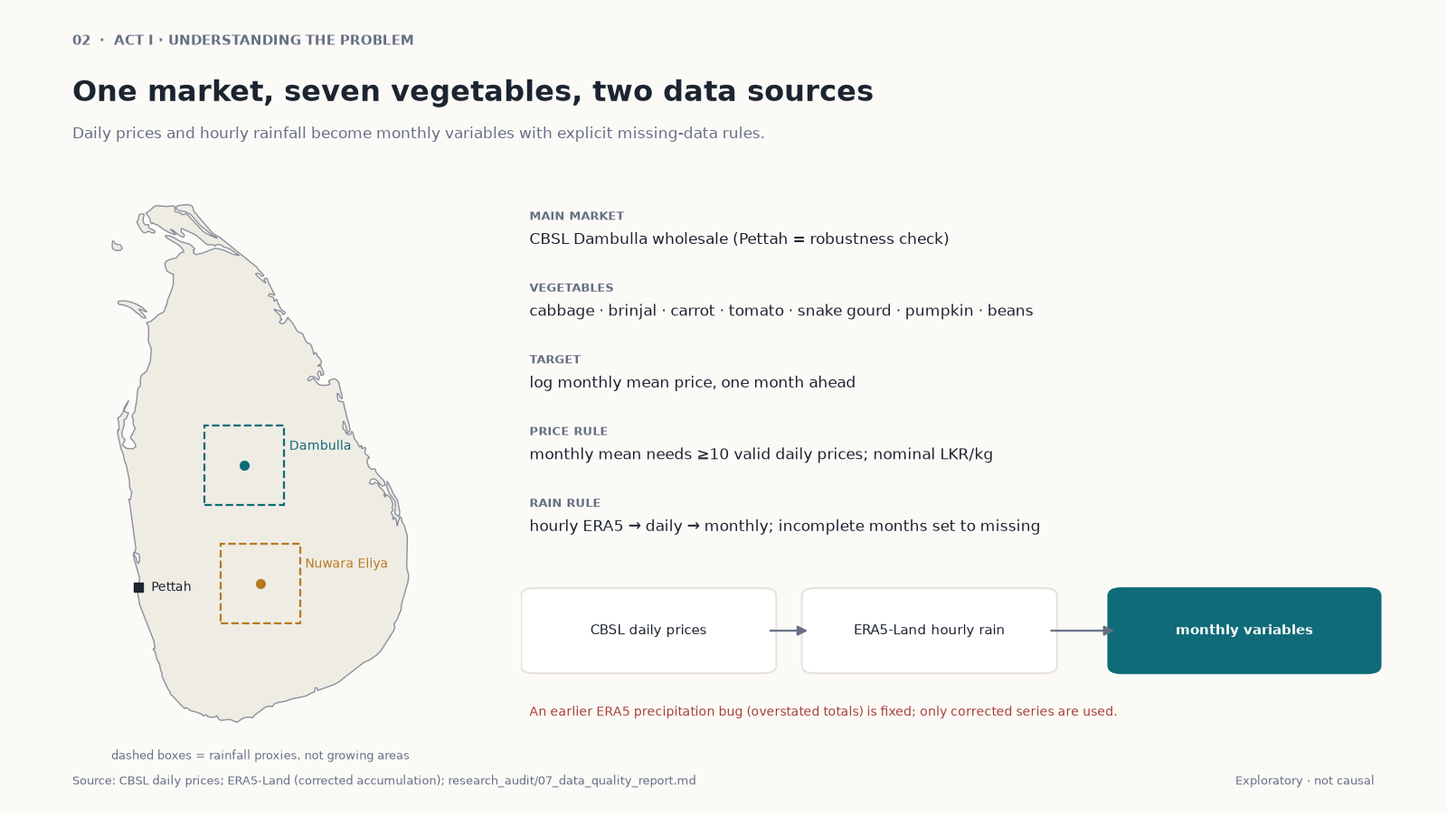
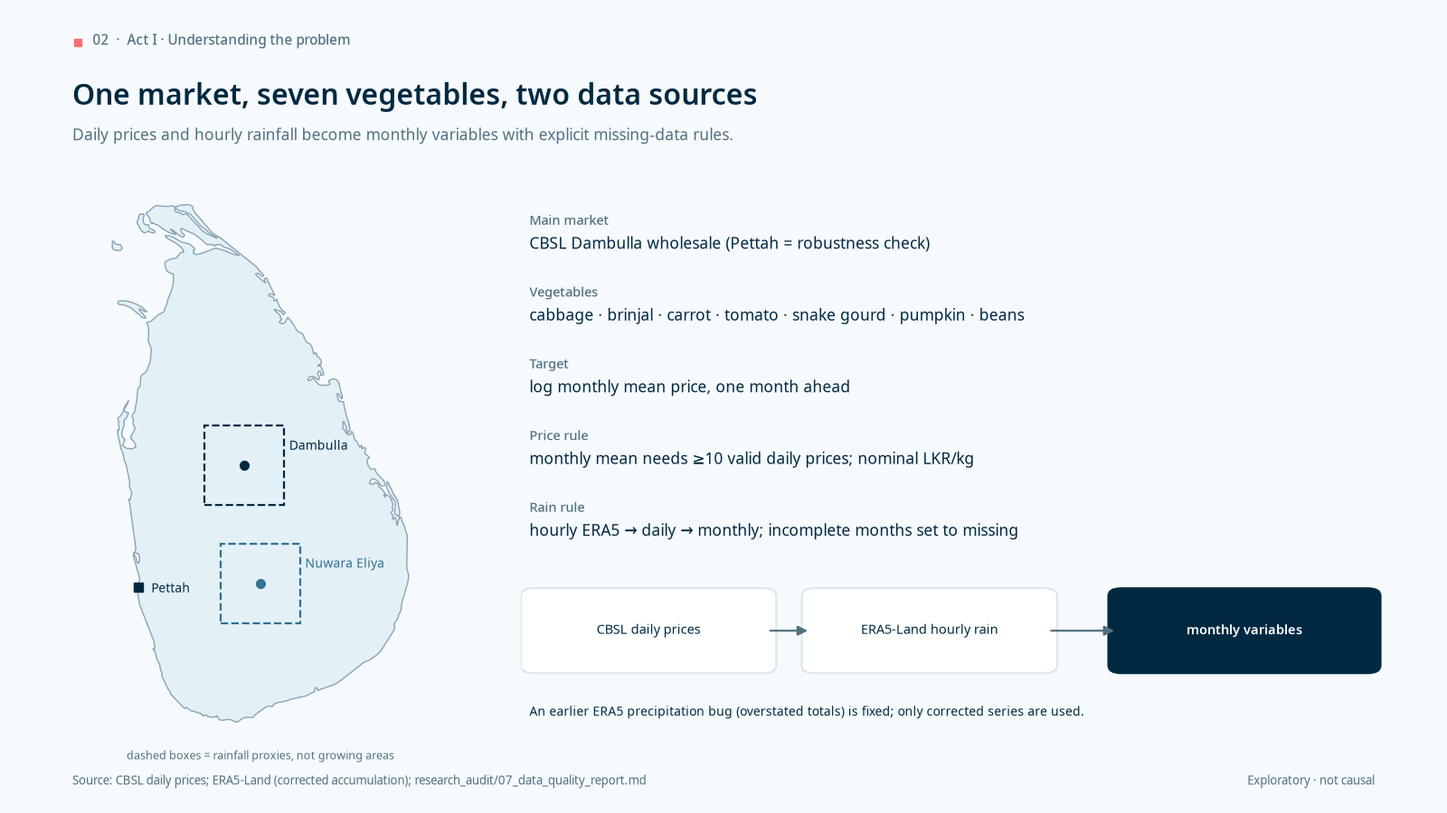
research-story: design pass with navy / soft blue / coral palette (unslop, polish mode)
Styling only; no wording, numbers or conclusions changed except the colour description in README 06.
Tokens: midnight navy ink and primary, soft blue tints and exploratory state, coral as the single accent
(act marker, worse state, caution rule), never as text. Noto Sans regular/medium/semibold, sentence-case
labels instead of tracked capitals, thin card rules instead of heavy header bars, diverging heat map
navy/coral, evidence dots carry colour while labels carry text. App: matching theme, quiet buttons with
focus ring, coral brand square.

diff --git a/research-story/build_figures.py b/research-story/build_figures.py
@@ -12,7 +12,15 @@ matplotlib.use("Agg")
 import matplotlib.pyplot as plt
 import numpy as np
 import pandas as pd
+from matplotlib.colors import LinearSegmentedColormap
+from matplotlib.lines import Line2D
 from matplotlib.patches import FancyArrowPatch, FancyBboxPatch, Rectangle
+
+from matplotlib import font_manager
+for _w in ("Regular", "Medium", "SemiBold"):          # static Noto Sans cuts, when installed (falls back to DejaVu Sans)
+    _f = Path(f"/usr/share/fonts/google-noto/NotoSans-{_w}.ttf")
+    if _f.exists():
+        font_manager.fontManager.addfont(str(_f))
 
 ROOT = Path(__file__).resolve().parent
 WORK = ROOT.parent
@@ -22,10 +30,13 @@ V2 = RA / "forecast_validation_v2"
 OUT = ROOT / "storyboard"
 
 # ---- design tokens (one accent; evidence class carried by colour AND label) ----
-PAPER, INK, MUTED, GRID = "#fbfaf7", "#1c2430", "#667085", "#e6e2d9"
-BASE, ACC, EXPL, BAD = "#8a929c", "#0f6b78", "#b7791f", "#a8403a"
-EVID_COL = {"supported": ACC, "exploratory": EXPL, "no evidence": BASE, "worse": BAD}
-plt.rcParams.update({"font.family": "DejaVu Sans", "axes.edgecolor": GRID, "axes.labelcolor": MUTED,
+# Palette: midnight navy (ink + primary), soft blue (tint), coral (the one accent: marks and caution only, never text)
+NAVY, SOFT, CORAL = "#002941", "#b6dfed", "#fd6e6e"
+PAPER, INK, MUTED, GRID = "#f6fafc", NAVY, "#52707f", "#d8e6ee"
+TINT, RAIN, MID, BASE = "#e3f1f7", "#8cc0d6", "#2f7292", "#8aa3b2"
+ACC, EXPL, BAD = NAVY, MID, CORAL
+EVID_COL = {"supported": NAVY, "exploratory": SOFT, "no evidence": "#a9bcc7", "worse": CORAL}
+plt.rcParams.update({"font.family": ["Noto Sans", "DejaVu Sans"], "axes.edgecolor": GRID, "axes.labelcolor": MUTED,
                      "xtick.color": MUTED, "ytick.color": MUTED, "text.color": INK,
                      "axes.spines.top": False, "axes.spines.right": False, "axes.facecolor": PAPER,
                      "figure.facecolor": PAPER, "axes.grid": False})
@@ -33,9 +44,9 @@ plt.rcParams.update({"font.family": "DejaVu Sans", "axes.edgecolor": GRID, "axes
 VEGS = ["Cabbage", "Brinjal", "Carrot", "Tomato", "Snake gourd", "Pumpkin", "Beans"]
 SLUGS = {1: "opening", 2: "scope_and_data", 3: "prices_and_rain", 4: "forecast_experiment", 5: "evaluation",
          6: "main_result", 7: "robustness", 8: "accuracy", 9: "wider_context", 10: "conclusions"}
-ACTS = {**{i: "ACT I · UNDERSTANDING THE PROBLEM" for i in (1, 2, 3)},
-        **{i: "ACT II · TESTING THE IDEA" for i in (4, 5, 6, 7, 8)},
-        **{i: "ACT III · THE WIDER PICTURE" for i in (9, 10)}}
+ACTS = {**{i: "Act I · Understanding the problem" for i in (1, 2, 3)},
+        **{i: "Act II · Testing the idea" for i in (4, 5, 6, 7, 8)},
+        **{i: "Act III · The wider picture" for i in (9, 10)}}
 
 
 # Stored v2 evidence label -> slide label (read from forecast_model_comparison_v2.csv, never re-derived)
@@ -45,8 +56,9 @@ EVID_LABEL = {"supported (corrected)": "supported", "suggestive (uncorrected onl
 
 def frame(n, headline, source, sub=None):
     fig = plt.figure(figsize=(16, 9), dpi=100)
-    fig.text(0.05, 0.945, f"{n:02d}  ·  {ACTS[n]}", fontsize=11, color=MUTED, fontweight="bold")
-    fig.text(0.05, 0.885, headline, fontsize=23, fontweight="bold", va="center")
+    fig.add_artist(Line2D([0.0535], [0.9475], marker="s", color=CORAL, markersize=6, linestyle="none", transform=fig.transFigure))
+    fig.text(0.064, 0.945, f"{n:02d}  ·  {ACTS[n]}", fontsize=11, color=MUTED, fontweight="medium")
+    fig.text(0.05, 0.885, headline, fontsize=23, fontweight="semibold", va="center")
     if sub:
         fig.text(0.05, 0.835, sub, fontsize=12.5, color=MUTED, va="center")
     fig.text(0.05, 0.035, "Source: " + source, fontsize=9.5, color=MUTED)
@@ -65,7 +77,7 @@ def save(fig, n):
 def box(ax, xy, w, h, text, fc="white", ec=GRID, tc=INK, fs=12, bold=False, lw=1.4):
     ax.add_patch(FancyBboxPatch(xy, w, h, boxstyle="round,pad=0.01,rounding_size=0.015", fc=fc, ec=ec, lw=lw))
     ax.text(xy[0] + w / 2, xy[1] + h / 2, text, ha="center", va="center", fontsize=fs, color=tc,
-            fontweight="bold" if bold else "normal", linespacing=1.4)
+            fontweight="semibold" if bold else "normal", linespacing=1.4)
 
 
 def arrow(ax, a, b, col=MUTED):
@@ -131,7 +143,7 @@ def p01():
     a.set_ylabel("Cabbage, LKR/kg (nominal)", fontsize=10); style_axes(a); a.set_xticklabels([])
     r, _ = national_rain(); r = r.loc["2016":]
     b = fig.add_axes([0.06, 0.13, 0.88, 0.22])
-    b.bar(r.index, r.values, width=24, color=BASE)
+    b.bar(r.index, r.values, width=24, color=RAIN)
     b.set_ylabel("National rain, mm/month", fontsize=10); style_axes(b)
     fig.text(0.5, 0.775, "Dambulla wholesale price and observed national rainfall, 2016–2026", ha="center", fontsize=11, color=MUTED)
     fig.text(0.5, 0.045 + 0.0, "", fontsize=1)
@@ -147,7 +159,7 @@ def p02():
     ax = fig.add_axes([0.04, 0.08, 0.28, 0.7])
     for poly in f["geometry"]["coordinates"]:
         for ring in poly:
-            xs, ys = zip(*ring); ax.fill(xs, ys, fc="#efece4", ec=BASE, lw=1)
+            xs, ys = zip(*ring); ax.fill(xs, ys, fc=TINT, ec=BASE, lw=1)
     for nme, (x, y, c) in {"Dambulla": (80.65, 7.86, ACC), "Nuwara Eliya": (80.77, 6.97, EXPL)}.items():
         ax.add_patch(Rectangle((x - 0.3, y - 0.3), 0.6, 0.6, fc="none", ec=c, ls="--", lw=1.6))
         ax.plot(x, y, "o", color=c, ms=7); ax.annotate(nme, (x + 0.34, y + 0.12), fontsize=10, color=c)
@@ -162,12 +174,12 @@ def p02():
              ("RAIN RULE", "hourly ERA5 → daily → monthly; incomplete months set to missing")]
     for i, (k, v) in enumerate(items):
         y = 0.96 - i * 0.135
-        r.text(0, y, k, fontsize=9.5, color=MUTED, fontweight="bold", va="top")
+        r.text(0, y, k.capitalize(), fontsize=10.5, color=MUTED, fontweight="medium", va="top")
         r.text(0, y - 0.04, v, fontsize=12.5, va="top")
     box(r, (0.0, 0.1), 0.28, 0.14, "CBSL daily prices", fs=10.5); box(r, (0.33, 0.1), 0.28, 0.14, "ERA5-Land hourly rain", fs=10.5)
     box(r, (0.69, 0.1), 0.3, 0.14, "monthly variables", fc=ACC, ec=ACC, tc="white", fs=10.5, bold=True)
     arrow(r, (0.28, 0.17), (0.33, 0.17)); arrow(r, (0.61, 0.17), (0.69, 0.17))
-    r.text(0.0, 0.01, "An earlier ERA5 precipitation bug (overstated totals) is fixed; only corrected series are used.", fontsize=10, color=BAD)
+    r.text(0.0, 0.01, "An earlier ERA5 precipitation bug (overstated totals) is fixed; only corrected series are used.", fontsize=10, color=INK)
     save(fig, 2)
 
 
@@ -184,12 +196,12 @@ def p03():
     for i, v in enumerate(VEGS):
         ax = fig.add_subplot(gs[i // 4, i % 4]); s = pr[v].dropna()
         ax.axvspan(pd.Timestamp("2022-01-01"), pd.Timestamp("2022-12-31"), color=GRID, lw=0)
-        ax.plot(s.index, s.values, color=ACC, lw=1.3); ax.set_title(v, fontsize=10.5, loc="left", fontweight="bold")
+        ax.plot(s.index, s.values, color=ACC, lw=1.3); ax.set_title(v, fontsize=10.5, loc="left", fontweight="semibold")
         style_axes(ax); ax.tick_params(labelsize=7.5)
     n = fig.add_subplot(gs[1, 3]); n.axis("off")
     n.text(0, 0.9, "LKR/kg, nominal\nshaded = 2022", fontsize=9.5, color=MUTED, va="top", linespacing=1.5)
     h = fig.add_axes([0.70, 0.36, 0.26, 0.42])
-    h.imshow(lag.values, cmap="RdBu_r", vmin=-0.6, vmax=0.6, aspect="auto")
+    h.imshow(lag.values, cmap=LinearSegmentedColormap.from_list("rain", [(0, CORAL), (0.5, "#ffffff"), (0.72, "#8cc0d6"), (1, NAVY)]), vmin=-0.6, vmax=0.6, aspect="auto")
     h.set_xticks(range(4)); h.set_xticklabels([f"lag {k}" for k in range(4)], fontsize=9.5); h.xaxis.tick_top()
     h.set_yticks(range(7)); h.set_yticklabels(VEGS, fontsize=10); h.tick_params(length=0)
     for i in range(7):
@@ -200,7 +212,7 @@ def p03():
     fig.text(0.70, 0.325, "Corr. of de-seasonalised price change with a\nz-score rain anomaly k months earlier", fontsize=9, color=MUTED, va="top", linespacing=1.4)
     _, an = national_rain(); an = an.loc["2016":]
     b = fig.add_axes([0.05, 0.08, 0.55, 0.15])
-    b.bar(an.index, an.values, width=24, color=[ACC if v >= 0 else EXPL for v in an.fillna(0)]); b.axhline(0, color=INK, lw=0.8)
+    b.bar(an.index, an.values, width=24, color=[MID if v >= 0 else CORAL for v in an.fillna(0)]); b.axhline(0, color=INK, lw=0.8)
     b.set_ylabel("rain anomaly\n(×100 mm)", fontsize=9); style_axes(b); b.tick_params(labelsize=8)
     fig.text(0.70, 0.215, "Strip: forecasting anomaly = rain minus the mean of\nthe same calendar month in earlier years, ÷ 100 mm.\nHeat map: z-score anomaly, a different construction.\nCorrelation motivates the test; it is not the finding.", fontsize=9.5, va="top", linespacing=1.45)
     save(fig, 3)
@@ -212,13 +224,13 @@ def p04():
                 "At the end of month t, two models forecast the price of month t+1.")
     ax = blank(fig, (0.05, 0.42, 0.9, 0.38))
     box(ax, (0.02, 0.58), 0.33, 0.38, "Price-only AR\nlags of the log price\n(lag set chosen by AIC, training window only)", fs=11.5, bold=True)
-    box(ax, (0.02, 0.04), 0.33, 0.46, "AR + rainfall\nthe SAME price lags\n+ A0 (rain in month t)\n+ A3 (3-month rain window)", fc="#dff0f2", ec=ACC, fs=11.5, bold=True)
+    box(ax, (0.02, 0.04), 0.33, 0.46, "AR + rainfall\nthe SAME price lags\n+ A0 (rain in month t)\n+ A3 (3-month rain window)", fc=TINT, ec=ACC, fs=11.5, bold=True)
     box(ax, (0.5, 0.35), 0.2, 0.3, "Forecast of\nprice in t+1", fs=13, bold=True)
     arrow(ax, (0.35, 0.77), (0.5, 0.55)); arrow(ax, (0.35, 0.27), (0.5, 0.45))
     box(ax, (0.79, 0.35), 0.19, 0.3, "Compare\nout-of-sample\nerrors", fs=12); arrow(ax, (0.7, 0.5), (0.8, 0.5))
     w = blank(fig, (0.05, 0.08, 0.9, 0.28))
     for i, lab in enumerate(["t−3", "t−2", "t−1", "t"]):
-        fc = "#dff0f2" if i == 3 else "white"
+        fc = TINT if i == 3 else "white"
         w.add_patch(Rectangle((i * 0.075, 0.45), 0.07, 0.35, fc=fc, ec=ACC if i == 3 else GRID, lw=2 if i == 3 else 1))
         w.text(i * 0.075 + 0.035, 0.625, lab, ha="center", va="center", fontsize=11)
     w.text(0.0, 0.3, "A0 = month t · A3 (primary) = mean of t−2…t, overlaps A0 (corr 0.57)\nA3 (check) = mean of t−3…t−1, no overlap (corr −0.05)\nBoth use only rain already observed at t.", fontsize=10.5, va="top", linespacing=1.5)
@@ -233,18 +245,18 @@ def p05():
                 "forecast_validation_v2/evaluation_samples.csv; forecast_backtest_report_v2.md",
                 "Technical detail lives in the README and report; the slide shows the logic.")
     ax = blank(fig, (0.05, 0.47, 0.9, 0.33))
-    cards = [("1  SCORE", ACC, "RMSE of the log price, AR+rain\nvs price-only AR, same dates.\nGain = % reduction.\n62 forecasts per vegetable."),
-             ("2  TEST", ACC, "Clark–West (nested models,\nNewey–West lag 3), one-sided.\nDiebold–Mariano as supplement.\nMoving-block bootstrap (3/6/12)."),
-             ("3  CORRECT", ACC, "Holm correction across the seven\nvegetables. Evidence label needs\nHolm p < 0.05 and every\nbootstrap p < 0.10.")]
+    cards = [("1  Score", ACC, "RMSE of the log price, AR+rain\nvs price-only AR, same dates.\nGain = % reduction.\n62 forecasts per vegetable."),
+             ("2  Test", ACC, "Clark–West (nested models,\nNewey–West lag 3), one-sided.\nDiebold–Mariano as supplement.\nMoving-block bootstrap (3/6/12)."),
+             ("3  Correct", ACC, "Holm correction across the seven\nvegetables. Evidence label needs\nHolm p < 0.05 and every\nbootstrap p < 0.10.")]
     for i, (h, c, t) in enumerate(cards):
         x0 = i * 0.34
-        ax.add_patch(Rectangle((x0, 0.0), 0.31, 1.0, fc="white", ec=GRID)); ax.add_patch(Rectangle((x0, 0.93), 0.31, 0.07, fc=c, ec="none"))
-        ax.text(x0 + 0.015, 0.8, h, fontsize=13, fontweight="bold", color=c, va="center")
+        ax.add_patch(Rectangle((x0, 0.0), 0.31, 1.0, fc="white", ec=GRID)); ax.add_patch(Rectangle((x0, 0.985), 0.31, 0.015, fc=c, ec="none"))
+        ax.text(x0 + 0.015, 0.84, h, fontsize=13, fontweight="semibold", color=INK, va="center")
         ax.text(x0 + 0.015, 0.68, t, fontsize=11.5, va="top", linespacing=1.5)
     tl = blank(fig, (0.05, 0.08, 0.9, 0.3))
     for k, y in enumerate([0.78, 0.5, 0.22]):
         w = 0.4 + k * 0.07
-        tl.add_patch(Rectangle((0.0, y), w, 0.17, fc="#dfe7ea", ec="none")); tl.add_patch(Rectangle((w, y), 0.03, 0.17, fc=ACC, ec="none"))
+        tl.add_patch(Rectangle((0.0, y), w, 0.17, fc=TINT, ec="none")); tl.add_patch(Rectangle((w, y), 0.03, 0.17, fc=ACC, ec="none"))
         tl.text(w / 2, y + 0.085, "training window (grows)", ha="center", va="center", fontsize=10)
         tl.text(w + 0.045, y + 0.085, "forecast t+1", va="center", fontsize=10, color=ACC)
     tl.text(0.66, 0.85, "Origins Aug 2021 → Sep 2026\nTargets Sep 2021 → Oct 2026\nAIC lag choice: training rows only", fontsize=11.5, va="top", linespacing=1.5)
@@ -258,29 +270,29 @@ def p06():
     fig = frame(6, "Rainfall helps some vegetables far more than others",
                 "forecast_model_comparison_v2.csv · Dambulla wholesale, national ERA5 rain, 62 forecasts each",
                 "Bar = size of improvement. Colour and label = strength of evidence (Holm-adjusted Clark–West p).")
-    a = fig.add_axes([0.14, 0.1, 0.5, 0.64]); y = np.arange(7)[::-1]
-    a.barh(y, gain, color=[EVID_COL[e] for e in ev], height=0.62); a.axvline(0, color=INK, lw=1)
+    a = fig.add_axes([0.14, 0.15, 0.5, 0.6]); y = np.arange(7)[::-1]
+    a.barh(y, gain, color=[EVID_COL[e] for e in ev], height=0.62, edgecolor=[NAVY if e == "exploratory" else "none" for e in ev], linewidth=1.6); a.axvline(0, color=INK, lw=1)
     a.set_yticks(y); a.set_yticklabels(VEGS, fontsize=13); a.set_xlabel("RMSE reduction vs price-only AR (%)", fontsize=11); a.tick_params(length=0, labelsize=10)
     for yy, g in zip(y, gain):
-        a.text(g + (0.5 if g >= 0 else -0.5), yy, f"{g:+.1f}%", va="center", ha="left" if g >= 0 else "right", fontsize=12, fontweight="bold")
+        a.text(g + (0.5 if g >= 0 else -0.5), yy, f"{g:+.1f}%", va="center", ha="left" if g >= 0 else "right", fontsize=12, fontweight="semibold")
     a.set_xlim(-4, 24)
     t = fig.add_axes([0.68, 0.1, 0.28, 0.64]); t.axis("off"); t.set_ylim(-0.5, 6.5); t.set_xlim(0, 1)
-    t.text(0, 6.75, "Holm p", fontsize=10.5, color=MUTED, fontweight="bold"); t.text(0.4, 6.75, "Evidence", fontsize=10.5, color=MUTED, fontweight="bold")
+    t.text(0, 6.75, "Holm p", fontsize=10.5, color=MUTED, fontweight="semibold"); t.text(0.4, 6.75, "Evidence", fontsize=10.5, color=MUTED, fontweight="semibold")
     lab = {"supported": "supported", "exploratory": "exploratory only", "no evidence": "no reliable evidence", "worse": "rain does not help"}
     for yy, q, e in zip(y, p, ev):
         t.text(0, yy, f"{q:.4f}" if q < 0.01 else f"{q:.3f}", va="center", fontsize=12)
-        t.text(0.4, yy, "● " + lab[e], va="center", fontsize=11.5, color=EVID_COL[e], fontweight="bold")
+        t.scatter(0.405, yy, s=70, color=EVID_COL[e], edgecolor=NAVY if e == "exploratory" else "none", linewidth=1.4, zorder=3); t.text(0.46, yy, lab[e], va="center", fontsize=11.5, color=INK, fontweight="medium")
     save(fig, 6)
 
 
 def p07():
     rw = pd.read_csv(V2 / "rain_window_comparison.csv").set_index(["commodity", "model"])
     pet, med = mc("pettah"), mc("dambulla", "median")
-    marks = [("Primary: national rain, A3 = t−2…t", ACC, "o", 110, [rw.loc[(v, "nat_incl"), "rmse_gain_vs_AR_pct"] for v in VEGS]),
-             ("Non-overlapping A3 = t−3…t−1", "#7fb3ba", "o", 60, [rw.loc[(v, "nat_prior"), "rmse_gain_vs_AR_pct"] for v in VEGS]),
-             ("Dambulla rain box", EXPL, "s", 55, [rw.loc[(v, "dam_incl"), "rmse_gain_vs_AR_pct"] for v in VEGS]),
-             ("Nuwara Eliya rain box", BAD, "^", 60, [rw.loc[(v, "nuw_incl"), "rmse_gain_vs_AR_pct"] for v in VEGS]),
-             ("Pettah market", INK, "D", 45, list(pet.rmse_gain_vs_AR_pct.values)),
+    marks = [("Primary: national rain, A3 = t−2…t", NAVY, "o", 110, [rw.loc[(v, "nat_incl"), "rmse_gain_vs_AR_pct"] for v in VEGS]),
+             ("Non-overlapping A3 = t−3…t−1", "#5b9ab7", "o", 60, [rw.loc[(v, "nat_prior"), "rmse_gain_vs_AR_pct"] for v in VEGS]),
+             ("Dambulla rain box", MID, "s", 55, [rw.loc[(v, "dam_incl"), "rmse_gain_vs_AR_pct"] for v in VEGS]),
+             ("Nuwara Eliya rain box", "#7a8f9c", "^", 60, [rw.loc[(v, "nuw_incl"), "rmse_gain_vs_AR_pct"] for v in VEGS]),
+             ("Pettah market", "#1d5878", "D", 45, list(pet.rmse_gain_vs_AR_pct.values)),
              ("Monthly median price", BASE, "X", 55, list(med.rmse_gain_vs_AR_pct.values))]
     fig = frame(7, "The ranking holds up under alternative specifications",
                 "forecast_validation_v2/rain_window_comparison.csv; forecast_model_comparison_v2.csv",
@@ -311,11 +323,12 @@ def p08():
     a.plot(rn.index, rn.pred_lkr, color=ACC, lw=2, label="AR + rain")
     a.set_ylabel("LKR/kg", fontsize=10); style_axes(a); a.legend(frameon=False, fontsize=10, loc="upper left")
     t = fig.add_axes([0.67, 0.1, 0.29, 0.64]); t.axis("off"); t.set_xlim(0, 1); t.set_ylim(-0.5, 7.5)
-    t.text(0.38, 7.2, "MAPE %", fontsize=10, color=MUTED, fontweight="bold"); t.text(0.72, 7.2, "80% cover", fontsize=10, color=MUTED, fontweight="bold")
+    t.text(0.38, 7.2, "MAPE %", fontsize=10, color=MUTED, fontweight="semibold"); t.text(0.72, 7.2, "80% cover", fontsize=10, color=MUTED, fontweight="semibold")
     for i, v in enumerate(VEGS):
         yy = 6.4 - i; t.text(0, yy, v, fontsize=11.5, va="center"); t.text(0.4, yy, f"{m.loc[v, 'mape_pct']:.1f}", fontsize=11.5, va="center")
-        cov = ic.loc[v, "coverage"]; t.text(0.74, yy, f"{cov:.2f}", fontsize=11.5, va="center", color=INK if cov >= 0.75 else BAD)
-    t.text(0, -0.4, "Nominal coverage 0.80; red = below 0.75.", fontsize=9.5, color=MUTED)
+        cov = ic.loc[v, "coverage"]; t.text(0.74, yy, f"{cov:.2f}", fontsize=11.5, va="center", color=INK)
+        if cov < 0.75: t.scatter(0.70, yy, s=36, color=CORAL, zorder=3)
+    t.text(0, -0.4, "Nominal coverage 0.80; coral dot = below 0.75.", fontsize=9.5, color=MUTED)
     save(fig, 8)
 
 
@@ -330,15 +343,15 @@ def p09():
     fig = frame(9, "Beyond vegetables: three separate sources of food-system vulnerability",
                 "ERA5-Land; DCS paddy; FAOSTAT; CBSL exchange rates. Context analyses; none feeds the forecasting model.",
                 "Weather, import exposure and exchange rates are shown side by side — never combined into one score.")
-    cols = [(0.05, ACC, "WEATHER & PADDY", f"Yala rain vs harvested/sown, r = {r:+.2f}, n = {len(yl)}", "Short series, policy shocks: association only."),
-            (0.37, EXPL, "RICE IMPORTS", "Apparent import share of supply", "Not self-sufficiency. Paddy→rice factor\n0.67 is an assumption, not data."),
-            (0.69, "#5a6270", "EXCHANGE RATE", "USD/LKR monthly mean (2022 shaded)", "Descriptive co-movement only; no pass-through\nestimate (needs a CPI/NCPI deflator).")]
+    cols = [(0.05, NAVY, "Weather and paddy", f"Yala rain vs harvested/sown, r = {r:+.2f}, n = {len(yl)}", "Short series, policy shocks: association only."),
+            (0.37, MID, "Rice imports", "Apparent import share of supply", "Not self-sufficiency. Paddy→rice factor\n0.67 is an assumption, not data."),
+            (0.69, BASE, "Exchange rate", "USD/LKR monthly mean (2022 shaded)", "Descriptive co-movement only; no pass-through\nestimate (needs a CPI/NCPI deflator).")]
     for x0, c, h, cap, cav in cols:
         fig.add_artist(Rectangle((x0 - 0.005, 0.07), 0.29, 0.7, fc="white", ec=GRID, transform=fig.transFigure, zorder=0))
-        fig.add_artist(Rectangle((x0 - 0.005, 0.74), 0.29, 0.03, fc=c, ec="none", transform=fig.transFigure))
-        fig.text(x0 + 0.01, 0.705, h, fontsize=11.5, fontweight="bold", color=c, va="center")
+        fig.add_artist(Rectangle((x0 - 0.005, 0.764), 0.29, 0.006, fc=c, ec="none", transform=fig.transFigure))
+        fig.text(x0 + 0.01, 0.725, h, fontsize=12, fontweight="semibold", color=INK, va="center")
         fig.text(x0 + 0.01, 0.17, cap, fontsize=10.5, va="center"); fig.text(x0 + 0.01, 0.105, cav, fontsize=9.5, color=MUTED, va="center")
-    a = fig.add_axes([0.08, 0.26, 0.22, 0.4]); a.scatter(x, yv, s=36, color=ACC, zorder=3)
+    a = fig.add_axes([0.10, 0.26, 0.20, 0.4]); a.scatter(x, yv, s=36, color=ACC, zorder=3)
     b = np.polyfit(x, yv, 1); xs = np.linspace(x.min(), x.max(), 5); a.plot(xs, np.polyval(b, xs), color=BASE, lw=1.4)
     a.set_xlabel("Yala rain, detrended (mm)", fontsize=9); a.set_ylabel("harvested/sown, detrended", fontsize=9); style_axes(a); a.tick_params(labelsize=8)
     share = rb.fao_rice_imp_000t / (rb.rice_eq_000t + rb.fao_rice_imp_000t) * 100
@@ -353,13 +366,13 @@ def p10():
     fig = frame(10, "Rainfall helps some vegetable forecasts — not all, and not precisely",
                 "Synthesis of pages 1–9")
     ax = blank(fig, (0.05, 0.1, 0.9, 0.72))
-    cols = [("FINDINGS", ACC, ["Adding observed rain improves one-month-ahead forecasts for cabbage, brinjal and carrot beyond past prices.", "The benefit is commodity-specific: snake gourd, pumpkin, beans show little or none; tomato is exploratory.", "Paddy, imports and exchange rates are distinct, context-setting dimensions of vulnerability."]),
-            ("LIMITATIONS", BAD, ["The test window was seen in the pilot: exploratory, not independent confirmation.", "Rain series are proxies, not growing-area rainfall; 62 forecast errors are dependent.", "Context analyses: short series, crisis confounding, incomplete trade data, no deflator yet."]),
-            ("IMPLICATIONS & NEXT", EXPL, ["A research finding on where rainfall adds information; not a deployable forecasting tool.", "Next: out-of-sample test on newly published months; growing-area rainfall; CPI/NCPI deflator.", "Longer horizons would need rainfall forecasts, a separate study."])]
+    cols = [("Findings", NAVY, ["Adding observed rain improves one-month-ahead forecasts for cabbage, brinjal and carrot beyond past prices.", "The benefit is commodity-specific: snake gourd, pumpkin, beans show little or none; tomato is exploratory.", "Paddy, imports and exchange rates are distinct, context-setting dimensions of vulnerability."]),
+            ("Limitations", CORAL, ["The test window was seen in the pilot: exploratory, not independent confirmation.", "Rain series are proxies, not growing-area rainfall; 62 forecast errors are dependent.", "Context analyses: short series, crisis confounding, incomplete trade data, no deflator yet."]),
+            ("Implications and next steps", MID, ["A research finding on where rainfall adds information; not a deployable forecasting tool.", "Next: out-of-sample test on newly published months; growing-area rainfall; CPI/NCPI deflator.", "Longer horizons would need rainfall forecasts, a separate study."])]
     for i, (h, c, items) in enumerate(cols):
         x0 = i * 0.34
-        ax.add_patch(Rectangle((x0, 0.0), 0.31, 1.0, fc="white", ec=GRID)); ax.add_patch(Rectangle((x0, 0.95), 0.31, 0.05, fc=c, ec="none"))
-        ax.text(x0 + 0.015, 0.87, h, fontsize=12.5, fontweight="bold", color=c, va="center")
+        ax.add_patch(Rectangle((x0, 0.0), 0.31, 1.0, fc="white", ec=GRID)); ax.add_patch(Rectangle((x0, 0.985), 0.31, 0.015, fc=c, ec="none"))
+        ax.text(x0 + 0.015, 0.89, h, fontsize=13, fontweight="semibold", color=INK, va="center")
         y = 0.79
         for k, it in enumerate(items):
             t = "\n".join(textwrap.wrap(it, 36)); ax.text(x0 + 0.015, y, f"{k + 1}  " + t.replace("\n", "\n    "), fontsize=12, va="top", linespacing=1.4)

diff --git a/research-story/app.py b/research-story/app.py
@@ -14,16 +14,21 @@ st.set_page_config(page_title="Research storyboard", layout="wide")
 st.markdown(
     """
 <style>
-:root { --ink:#1c2430; --muted:#667085; --rule:#e6e2d9; --accent:#0f6b78; --paper:#fbfaf7; }
+:root { --ink:#002941; --muted:#52707f; --rule:#d8e6ee; --accent:#002941; --coral:#fd6e6e; --soft:#b6dfed; --tint:#e3f1f7; --paper:#f6fafc; }
+html, body, .stApp, [data-testid="stMarkdownContainer"] { font-family: "Noto Sans", system-ui, sans-serif; }
 .stApp { background: var(--paper); color: var(--ink); }
-[data-testid="stSidebar"] { background: #f4f1ea; border-right: 1px solid var(--rule); }
-h1, h2, h3 { letter-spacing: -0.01em; }
-.label { font-size: .72rem; letter-spacing: .08em; text-transform: uppercase; color: var(--muted); font-weight: 700; margin: 1.1rem 0 .15rem; }
-.body { font-size: 1.02rem; line-height: 1.55; margin: 0 0 .4rem; }
-.qual { border-left: 3px solid #b7791f; padding: .15rem 0 .15rem .8rem; }
-.flow { border: 1px solid var(--rule); background: #fff; padding: .9rem 1rem; border-radius: 6px; min-height: 12rem; }
-.flow.now { border-color: var(--accent); }
-img { border: 1px solid var(--rule); border-radius: 4px; }
+[data-testid="stSidebar"] { background: #e9f4f9; border-right: 1px solid var(--rule); }
+h1, h2, h3 { font-weight: 600; letter-spacing: -0.01em; color: var(--ink); }
+.label { font-size: .8rem; color: var(--muted); font-weight: 500; margin: 1.25rem 0 .25rem; }
+.body { font-size: 1rem; line-height: 1.6; margin: 0 0 .5rem; }
+.qual { border-left: 3px solid var(--coral); padding: .25rem 0 .25rem .75rem; }
+.flow { border: 1px solid var(--rule); background: #fff; padding: 1rem; border-radius: 8px; min-height: 12rem; }
+.flow.now { border-color: var(--ink); background: var(--tint); }
+.stButton > button { border: 1px solid var(--ink); color: var(--ink); background: transparent; border-radius: 8px; transition: background-color .15s ease; }
+.stButton > button:hover:not(:disabled) { background: var(--soft); border-color: var(--ink); color: var(--ink); }
+.stButton > button:focus-visible { outline: 2px solid var(--ink); outline-offset: 2px; }
+.brand::before { content: ""; display: inline-block; width: 8px; height: 8px; background: var(--coral); margin-right: 8px; vertical-align: middle; }
+img { border: 1px solid var(--rule); border-radius: 8px; }
 </style>
 """,
     unsafe_allow_html=True,
@@ -42,7 +47,7 @@ def parse(path: Path) -> dict:
 DOCS = [parse(p) for p in PAGES]
 labels = [d["title"] for d in DOCS]
 
-st.sidebar.markdown("### Research storyboard")
+st.sidebar.markdown('<h3 class="brand">Research storyboard</h3>', unsafe_allow_html=True)
 mode = st.sidebar.radio("Mode", ["Author", "Presentation", "Story flow"], index=0, key="mode")
 if "i" not in st.session_state:
     st.session_state.i = 0

diff --git a/research-story/storyboard/06_main_result/README.md b/research-story/storyboard/06_main_result/README.md
@@ -11,7 +11,7 @@ The centrepiece: answer whether rainfall helps, vegetable by vegetable.
 Cabbage, brinjal and carrot improve materially and survive correction. Tomato is only suggestive. Snake gourd and pumpkin show little. Beans get slightly worse.
 
 ## Visual
-Horizontal bars for RMSE gain, fixed vegetable order, zero line, with Holm p and an evidence label beside each bar. Colour is teal for supported, amber for exploratory, grey for none, red for worse, and the label repeats it so colour is not the only cue. Size and strength are kept separate on purpose. Evidence labels are read from the stored v2 `evidence` column (supported (corrected), suggestive (uncorrected only), no reliable evidence, worse or no gain), not re-derived.
+Horizontal bars for RMSE gain, fixed vegetable order, zero line, with Holm p and an evidence label beside each bar. Colour is midnight navy for supported, soft blue with a navy outline for exploratory, grey for none and coral for worse, and the label repeats it so colour is not the only cue. Size and strength are kept separate on purpose. Evidence labels are read from the stored v2 `evidence` column (supported (corrected), suggestive (uncorrected only), no reliable evidence, worse or no gain), not re-derived.
 
 ## Evidence
 `forecast_model_comparison_v2.csv`: Dambulla, mean price, national rain. Gains 19.7 / 12.4 / 8.2 / 4.8 / 1.8 / 1.8 / -1.5 percent; Holm CW p 0.0018 / 0.0009 / 0.0285 / 0.109 / 0.189 / 0.235 / 0.557.

diff --git a/research-story/README.md b/research-story/README.md
@@ -25,3 +25,6 @@ Figures read `research_audit/` outputs only; raw data are never touched. Image t
 3. Exploratory is labelled exploratory; no causal claims; no composite vulnerability score.
 4. The tomato result stays exploratory (the one corrected regional cell is not promoted).
 5. The resolution is the empirical answer, not a product.
+
+## Visual identity
+Midnight navy `#002941` (ink and primary marks), soft blue `#b6dfed` (tints and the exploratory state), coral `#fd6e6e` (the single accent: the act marker, the "worse" state and caution callouts; never used for text). Type is Noto Sans in regular, medium and semibold. Evidence classes are always carried by a label as well as by colour.
